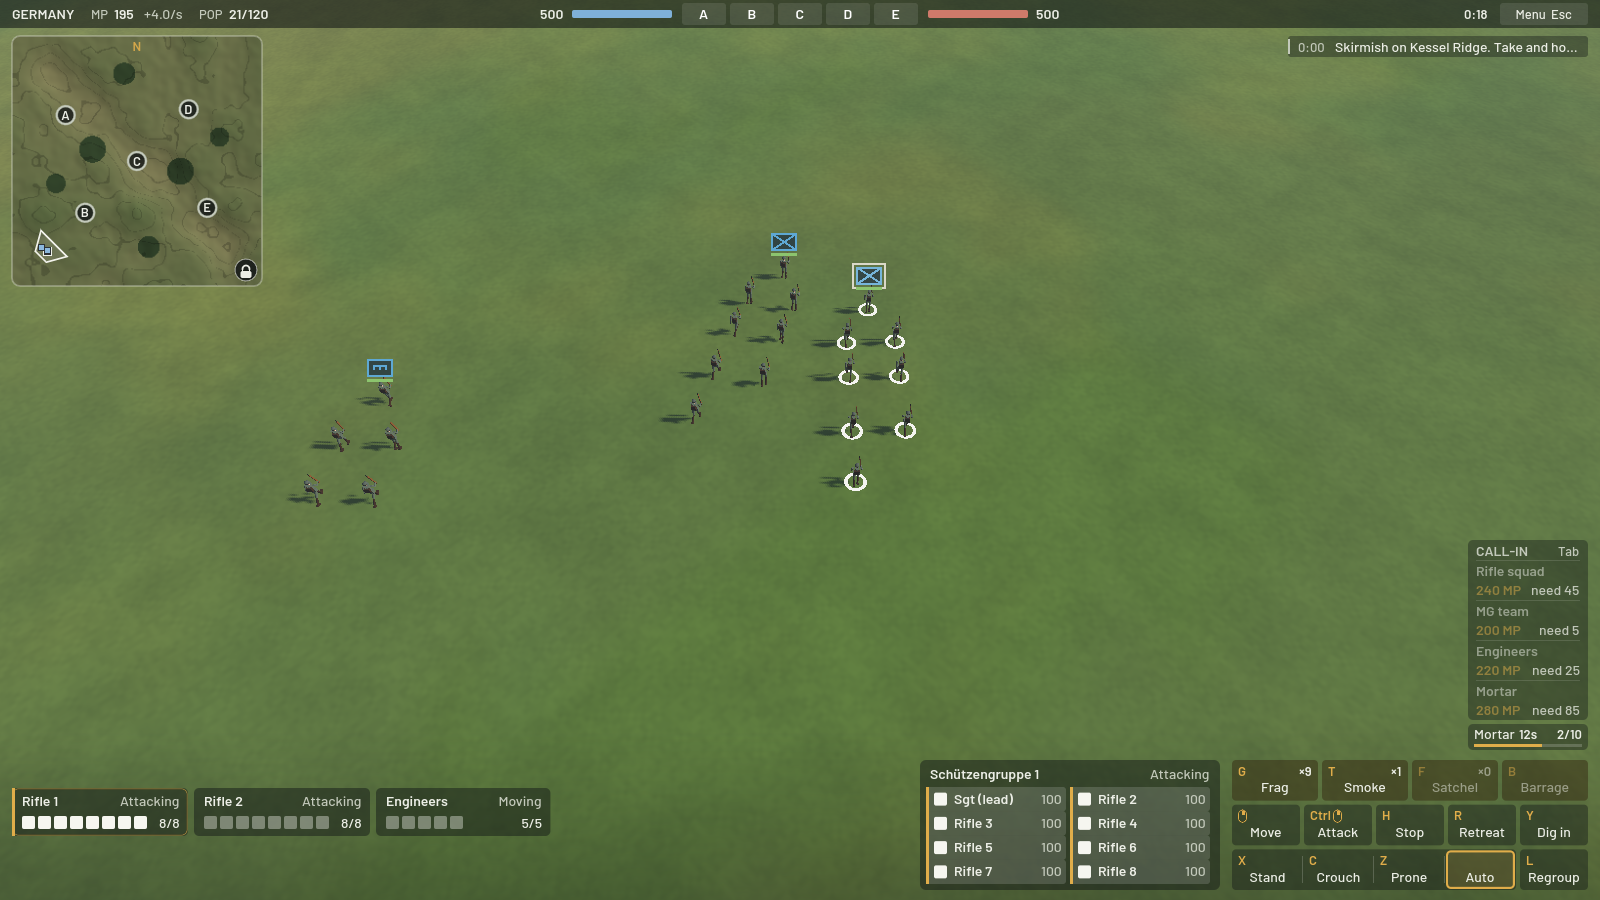
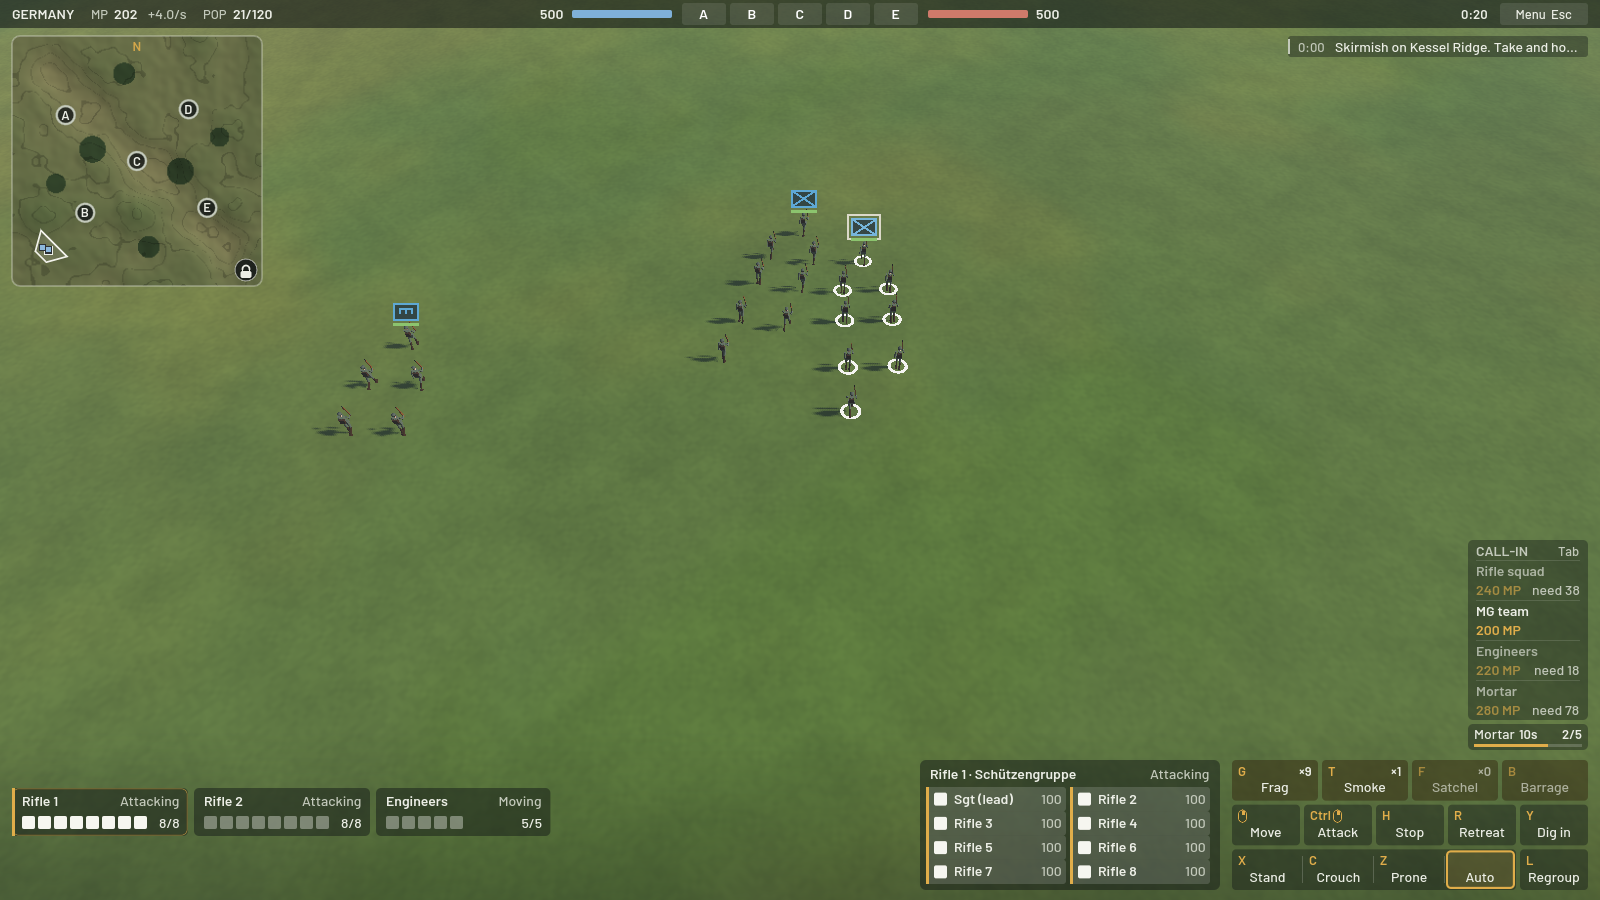
S1b fix pass: call-in queue cap 5 (HUD spec), card and detail panel name squads alike, Shift+box removes, close-up picking reach, HUD contrast, smoke-first autoplay assault, hover shot, fresh screenshots, TODO update
The trench-frag screenshots (s1b_frag_tool, s1b_frag_trench) come from the one
autoplay run of three that landed a frag in an enemy trench; the other S1b
screenshots come from the last full run (see docs/TODO.md).

diff --git a/sdk/crates/cli/tests/skirmish.rs b/sdk/crates/cli/tests/skirmish.rs
@@ -131,7 +131,9 @@ fn fortify_test_passes() {
     assert!(r.rifles.pass, "{r:#?}");
     assert!(r.mortar.pass, "{r:#?}");
     assert!(r.smoke.pass, "{:#?}", r.smoke);
-    assert_eq!(r.grenade.runs.len(), 40);
+    // From 60 m, from 25 m, and from 60 m behind smoke; each with and
+    // without frags.
+    assert_eq!(r.grenade.runs.len(), 60);
     assert_eq!(r.smoke.runs.len(), 20);
     // Frags thrown from 25 m cost the defenders clearly more than rifles.
     let close = &r.grenade.variants[1];
@@ -141,6 +143,10 @@ fn fortify_test_passes() {
         close.grenades.defender_losses >= 2 * close.rifle_only.defender_losses.max(1),
         "{close:?}"
     );
+    // Behind their own smoke the attackers get close enough to throw.
+    let screened = &r.grenade.variants[2];
+    assert!(screened.smoke && screened.start_m == 60, "{screened:?}");
+    assert!(screened.grenades.frags_thrown >= 20, "{screened:?}");
     assert!(r.pass);
 }
 
@@ -154,8 +160,8 @@ fn fortify_test_reports_each_run() {
     .unwrap();
     assert_eq!(r.rifles.runs.len(), 2);
     assert_eq!(r.mortar.runs.len(), 4);
-    assert_eq!(r.grenade.runs.len(), 8);
-    assert_eq!(r.grenade.variants.len(), 2);
+    assert_eq!(r.grenade.runs.len(), 12);
+    assert_eq!(r.grenade.variants.len(), 3);
     assert_eq!(r.smoke.runs.len(), 4);
     // Behind smoke: never seen or fired on; the control is.
     for run in &r.smoke.runs {

diff --git a/crates/sim/src/game.rs b/crates/sim/src/game.rs
@@ -57,8 +57,9 @@ use crate::unit::{UnitDig, UnitOrder};
 pub const MAX_DIG_POINTS: usize = 16;
 /// Most rounds in one Barrage order.
 pub const MAX_BARRAGE_ROUNDS: u16 = 50;
-/// Most queued call-ins per player.
-pub const MAX_CALL_IN_QUEUE: usize = 10;
+/// Most queued call-ins per player (the HUD's "n/5" queue bar,
+/// `docs/slices/S1b-hud.md`).
+pub const MAX_CALL_IN_QUEUE: usize = 5;
 /// Longest stored path (waypoints); a smoothed path is far shorter.
 pub const MAX_PATH_POINTS: usize = 8192;
 

diff --git a/docs/TODO.md b/docs/TODO.md
@@ -5,12 +5,13 @@ it.
 
 ## Queued (owner requests, 2026-10-31)
 
-- [ ] **Individual soldier selection and orders**, GoH-inspired. Spec:
-  `docs/slices/S1b-soldier-control.md`.
-- [ ] **Call-in panel on the right side** of the screen. Today it sits
-  bottom-left, next to the minimap.
-- [ ] **Smaller top bar.** Today it is about 44 px tall at 900p and spans the
-  full width.
+- [x] **Individual soldier selection and orders**, GoH-inspired. Spec:
+  `docs/slices/S1b-soldier-control.md`. Built in S1b (see the known issues
+  below for what is still rough).
+- [x] **Call-in panel on the right side** of the screen. Built in S1b: a
+  right-anchored column above the orders.
+- [x] **Smaller top bar.** Built in S1b: 28 px, with the capture chips in
+  it.
 - [x] **HUD direction, decided by the owner 2026-10-31: a docked console, but
   lighter.**
   - **Console:** a translucent bottom home for the roster with per-man pips,
@@ -27,11 +28,14 @@ it.
     compact bar with a count.
 
   Spec: `docs/slices/S1b-hud.md`. Mocks: `docs/slices/mocks/`. Built in S1b.
-- [ ] **Squad card sized to its content.** Today the card has a fixed width
+- [x] **Squad card sized to its content.** Built in S1b
+  (`roster.card_width`). Today the card has a fixed width
   and cuts long names short ("Granatwerf…"). The card should grow to fit the
   name and the state text, with a sensible maximum, and only then shorten
   the text.
-- [ ] **Ability buttons: throw grenade and similar actions.** They can go on
+- [x] **Ability buttons: throw grenade and similar actions.** Built in S1b
+  (`docs/slices/S1b-abilities.md`): G frag, T smoke, F satchel; the AI
+  throws too, but rarely (see below). They can go on
   the same panel as the orders or elsewhere on the HUD, depending on the
   layout decision. They need sim support:
   - a per-soldier ammo or inventory count;
@@ -57,3 +61,47 @@ it.
   - Regiment drops 34 % of shots (pool full);
   - MPL-2.0 text missing from THIRD_PARTY_NOTICES;
   - Metal reports 0 GPU time.
+
+## Known issues found during S1b
+
+- [ ] **Assaulting a finished trench across open ground barely works.**
+  Men in a trench lose nobody to rifle fire, while defenders see attackers
+  at 150 m and attackers see them at 90 m. `fortify-test` (5 seeds × both
+  factions): from 60 m the attackers are wiped in every run, with or
+  without frags. Smoke first, then walking into the cloud to 27 m and
+  throwing, costs the defenders 61 of 80 men, but the attackers still lose
+  75 of 80 once the smoke thins. Frags from 25 m work (defenders 80 of 80
+  lost). The open question is how a player gets to 60 m: suppression that
+  really pins trench men, mortar smoke, or longer smoke throws. Needs an
+  owner decision.
+- [ ] The AI throws rarely: 0–4 items per AI-vs-AI match, no satchel seen in
+  any seed, because its fights happen at rifle range.
+- [ ] Sim step spikes in windowed Godot runs (max 13–44 ms, 5–13 late
+  ticks per 12–18 minute run, nothing else running) that headless runs
+  never show (P99 under 0.7 ms, max 1.4 ms). Probably the sim thread being
+  descheduled (see the M0 efficiency-core note); not investigated.
+- [ ] `--autoplay` lands a frag in an enemy trench in only 1 of 3 complete runs
+  (2026-11-01). Assault squads sent across the map die on the way, and a
+  thrower standing up for his 1 s wind-up is often shot. The committed
+  `s1b_frag_tool.png` and `s1b_frag_trench.png` come from that one run;
+  the other S1b shots come from the last full run. Autoplay exits 3 when
+  the trench shot is missing.
+- [ ] Autoplay pushes clicks and keys into the viewport, so the OS
+  window-to-viewport path is untested.
+- [ ] Throw streaks and frag blasts are small at the 40–55 m RTS camera
+  height; a frag's 0.2 m crater is hard to see.
+- [ ] At 1280x800 the roster shows 5 cards and a "+3" chip with 8 squads.
+- [ ] A man winding up a throw in a trench stands on the fire step even when
+  ordered prone (aiming, not suppression).
+- [ ] `MoveUnits` puts all detached men on one line, n × spacing wide (about
+  117 m for 40 men). The spec says "a small line".
+- [ ] Throw flight is 2–2.7 s at 25–30 m (45° lob, deliberate); the spec
+  said about 1 s.
+- [ ] Fog of war for thrown items and smoke clouds (visible if ours, if we
+  see the thrower, or within 40 m of our men) is our own rule, not from
+  the spec.
+- [ ] Not measured: the cost of 240 soldier dictionaries in `get_state`, and
+  picking + rings on an M3 export build. Headless debug measures
+  0.27–0.32 ms against the 0.3 ms budget (the view test's own limit is a
+  loose 2 ms).
+- [ ] `bench/results` S1 hashes are stale since S1b.
